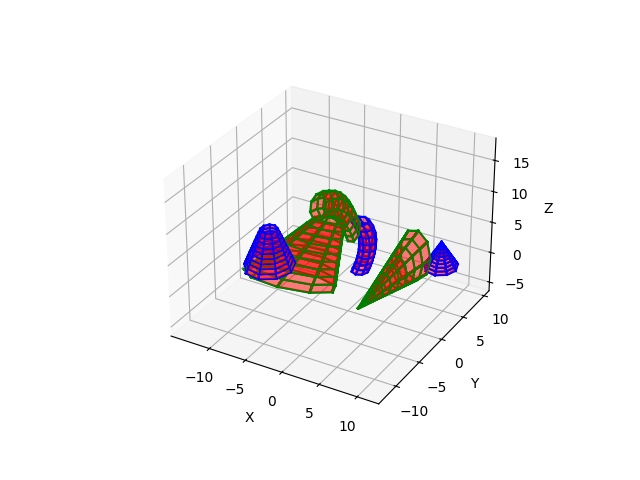
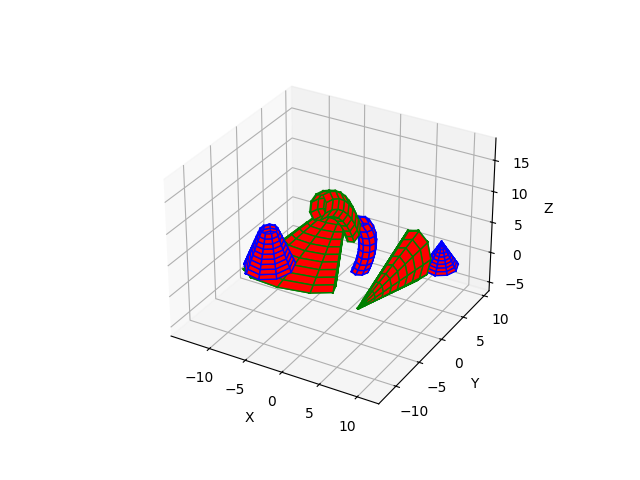
novas imagens e passagem para camera

Changed region(s): [[0.375, 0.375, 0.7188, 0.625]]

diff --git a/utils/utils.py b/utils/utils.py
@@ -28,13 +28,11 @@ def create_figure2D() -> Axes:
   axes = fig.add_subplot(111)
   return axes
 
-def calcular_media_solidos(cubeCenterMass, coneCenterMass, cilindroCenterMass, troncoCenterMass, esferaCenterMass):
-  media = (cubeCenterMass
-    + coneCenterMass
-    + cilindroCenterMass
-    + troncoCenterMass
-    + esferaCenterMass
-  ) / 5
+def calcular_media_solidos(*centros_massas):
+  # Calcula a soma de todos os elementos do array
+  soma = sum(centros_massas)
+  # Divide pela quantidade de elementos para obter a média
+  media = soma / len(centros_massas)
   return media
 
 def plotaSolido(solido: Solido, axes: Axes, cor) -> Axes:
@@ -153,21 +151,4 @@ def transladar(dx, dy, dz, solido: Solido):
   return x, y, z
 
 
-def calculateCenterMass(vertexList):
-  return np.mean(vertexList, axis=0)
 
-
-def convertWorldToCamera(vertexList, U, V, N, eye):
-  RTMatrix = np.array(
-    [
-      [U[0], U[1], U[2], -np.dot(eye, U)],
-      [V[0], V[1], V[2], -np.dot(eye, V)],
-      [N[0], N[1], N[2], -np.dot(eye, N)],
-      [0, 0, 0, 1],
-    ]
-  )
-  cameraVertexList = np.dot(
-    RTMatrix, np.concatenate([vertexList.T, np.ones((1, vertexList.shape[0]))])
-  )
-  cameraVertexList = cameraVertexList[:3].T
-  return cameraVertexList  # isso aqui é o solido transformado (já foi rotacionado e transladado)

diff --git a/utils/solido.py b/utils/solido.py
@@ -22,7 +22,7 @@ class Solido(ABC):
       def set_vertices_lista(self, new_vertices):
             self.pontosX, self.pontosY, self.pontosZ = new_vertices
 
-      def plota_solido_com_faces(self, axes: Axes, cor_arestas="b", cor_faces="r", alpha=0.5) -> Axes:
+      def plota_solido_com_faces(self, axes: Axes, cor_arestas="b", cor_faces="r", alpha=1) -> Axes:
             axes, pontos = utils.plotaSolido(self, axes, cor_arestas)
             self.preencher_faces(axes, pontos, cor_faces, cor_arestas, alpha)
             return axes
